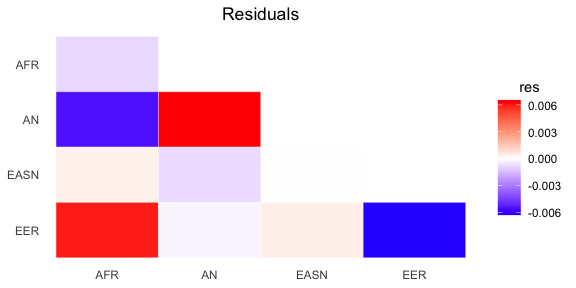
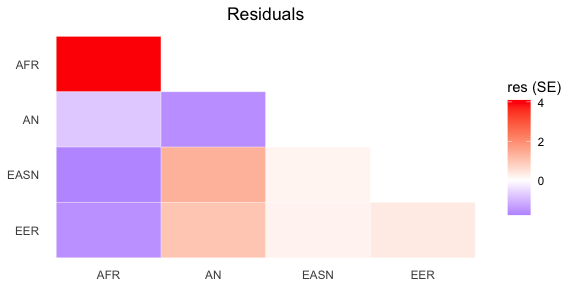
fix plot residual and reknit readme

diff --git a/README.md b/README.md
@@ -32,22 +32,27 @@ infiles <- system.file('extdata', package='treemixTools') |> list.files(full.nam
 inStem <- infiles[1] |> gsub(pattern=".cov.gz", replacement="")
 obj <- read_treemixResult(inStem)
 str(obj)
-#> List of 11
+#> List of 13
 #>  $ cov     : num [1:4, 1:4] 0.02073 -0.01012 -0.00619 -0.00442 -0.01012 ...
 #>   ..- attr(*, "dimnames")=List of 2
 #>   .. ..$ : chr [1:4] "AFR" "AN" "EASN" "EER"
 #>   .. ..$ : chr [1:4] "AFR" "AN" "EASN" "EER"
-#>  $ cov.est : num [1:4, 1:4] 0.01987 -0.00409 -0.00583 -0.00996 -0.00409 ...
+#>  $ covse   : num [1:4, 1:4] 0.000516 0.000176 0.000226 0.000266 0.000176 ...
 #>   ..- attr(*, "dimnames")=List of 2
-#>   .. ..$ : chr [1:4] "AFR" "EER" "EASN" "AN"
-#>   .. ..$ : chr [1:4] "AFR" "EER" "EASN" "AN"
-#>  $ resid   : num [1:4, 1:4] -0.000861 0.006032 0.000369 -0.00554 0.006032 ...
+#>   .. ..$ : chr [1:4] "AFR" "AN" "EASN" "EER"
+#>   .. ..$ : chr [1:4] "AFR" "AN" "EASN" "EER"
+#>  $ mod     : num [1:4, 1:4] 0.01987 -0.00996 -0.00583 -0.00409 -0.00996 ...
 #>   ..- attr(*, "dimnames")=List of 2
-#>   .. ..$ : chr [1:4] "AFR" "EER" "EASN" "AN"
-#>   .. ..$ : chr [1:4] "AFR" "EER" "EASN" "AN"
-#>  $ sse     : num 6.81e-05
+#>   .. ..$ : chr [1:4] "AFR" "AN" "EASN" "EER"
+#>   .. ..$ : chr [1:4] "AFR" "AN" "EASN" "EER"
+#>  $ resid   : num [1:4, 1:4] 0.000861 -0.00016 -0.000369 -0.000332 -0.00016 ...
+#>   ..- attr(*, "dimnames")=List of 2
+#>   .. ..$ : chr [1:4] "AFR" "AN" "EASN" "EER"
+#>   .. ..$ : chr [1:4] "AFR" "AN" "EASN" "EER"
+#>  $ mse     : num 0.00021
+#>  $ sse     : num 3.83e-07
 #>  $ ssm     : num 0.000102
-#>  $ r2      : num 0.33
+#>  $ r2      : num 0.996
 #>  $ llik    : num 76.7
 #>  $ m       : int 1
 #>  $ tree    :List of 4
@@ -86,9 +91,6 @@ plot_treemix_graph(obj)
 #> Registered S3 method overwritten by 'treeio':
 #>   method          from  
 #>   as.phylo.matrix aphylo
-#> Registered S3 method overwritten by 'ggtree':
-#>   method      from 
-#>   identify.gg ggfun
 ```
 
 <img src="man/figures/README-graph-1.png" width="100%" />
@@ -109,8 +111,4 @@ plot_treemix_residual(obj)
 
 <img src="man/figures/README-residual-1.png" width="100%" />
 
-You’ll still need to render `README.Rmd` regularly, to keep `README.md`
-up-to-date. `devtools::build_readme()` is handy for this. You could also
-use GitHub Actions to re-render `README.Rmd` every time you push. An
-example workflow can be found here:
-<https://github.com/r-lib/actions/tree/v1/examples>
+## merge

diff --git a/log.md b/log.md
@@ -19,7 +19,8 @@ git  merge origin/main
 # git overwrite file on remote
 git add .
 git commit --no-verify -am 'overwrite readme file'
-
+#
+git add . && git commit -am 'fix plot residual and reknit readme'
 
 ```
 
